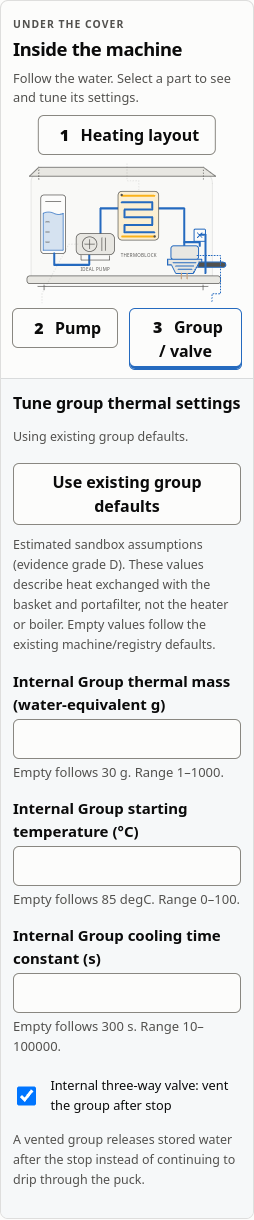
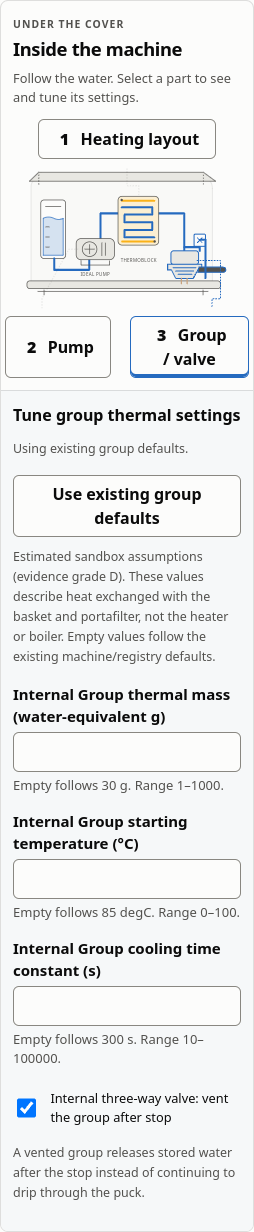
fix(web): reserve space for wrapped machine callouts

Changed region(s): [[0.0, 0.0311, 0.9921, 1.0], [0.7992, 0.8721, 0.8819, 0.9033], [0.8543, 0.0623, 0.9094, 0.0934]]

diff --git a/web/src/shot/equipment/MachineInternals.css b/web/src/shot/equipment/MachineInternals.css
@@ -28,13 +28,20 @@
   font-weight: 700;
 }
 .machine-internal-stage {
-  position: relative;
-  margin: 3.3rem 0.25rem 3.6rem;
-  aspect-ratio: 600 / 360;
+  display: grid;
+  grid-template-columns: repeat(2, minmax(0, 1fr));
+  gap: 0.35rem;
+  margin: 0.75rem 0.25rem;
+}
+.machine-internal-callouts {
+  display: contents;
 }
 .machine-internal-art {
+  grid-column: 1 / -1;
+  grid-row: 2;
   width: 100%;
-  height: 100%;
+  height: auto;
+  aspect-ratio: 600 / 360;
   display: block;
   fill: none;
   stroke: var(--ink-2);
@@ -100,7 +107,8 @@
   stroke-width: 2.5;
 }
 .machine-internal-callout {
-  position: absolute;
+  min-width: 0;
+  max-width: 100%;
   min-height: 44px;
   padding: 0.45rem 0.65rem;
   font-size: 0.75rem;
@@ -122,17 +130,19 @@
   font-weight: 800;
 }
 .mi-callout-heating {
-  top: -2.8rem;
-  left: 50%;
-  transform: translateX(-50%);
+  grid-column: 1 / -1;
+  grid-row: 1;
+  justify-self: center;
 }
 .mi-callout-pump {
-  top: calc(100% + 0.1rem);
-  left: 3%;
+  grid-column: 1;
+  grid-row: 3;
+  justify-self: start;
 }
 .mi-callout-group {
-  top: calc(100% + 0.1rem);
-  right: 3%;
+  grid-column: 2;
+  grid-row: 3;
+  justify-self: end;
 }
 .machine-internal-panel {
   padding: 1rem;
@@ -191,9 +201,6 @@
   min-height: 44px;
 }
 @container (max-width: 300px) {
-  .machine-internal-stage {
-    margin-bottom: 4.5rem;
-  }
   .machine-internal-heading {
     padding-inline: 0.75rem;
   }
@@ -201,12 +208,9 @@
     padding: 0.75rem;
   }
   .machine-internal-callout {
-    max-width: 46%;
     padding-inline: 0.4rem;
   }
   .mi-callout-heating {
-    max-width: 95%;
-    width: max-content;
     white-space: nowrap;
   }
 }

diff --git a/docs/validation/m6-detailed-parts-validation.md b/docs/validation/m6-detailed-parts-validation.md
@@ -26,6 +26,9 @@ preparation inputs.
   error linkage and keyboard behavior. Reset/Undo restores thermal inputs without
   removing unrelated overrides; replacing burrs or baskets retains their full
   previous configuration for Undo.
+- Machine callouts use intrinsic grid rows, reserving space for wrapped labels.
+  The browser checks actual element boundaries at 320 px, preventing callouts
+  from covering the cutaway or the controls across font/browser differences.
 - Production offline/update checks pass under root and repository paths, including
   disconnected engine/Explore/journal workflows and returning setup. No page
   errors or foreign-origin requests were observed.

diff --git a/CHANGELOG.md b/CHANGELOG.md
@@ -19,6 +19,8 @@ All notable changes are recorded here. Versions follow semantic versioning. Whil
   is refreshed without retraining. All 218,221 golden values remain unchanged.
 
 ### Fixed
+- Internal machine callouts reserve their own layout rows, keeping wrapped
+  labels clear of the cutaway and controls on narrow screens.
 - Repeated Open/Go-to actions keep distinct reveal requests after focus moves,
   so later sections open correctly. Burr swaps preserve the native 5 µm minimum
   for direct and calibrated dial gaps, including zero/negative mapped gaps.
